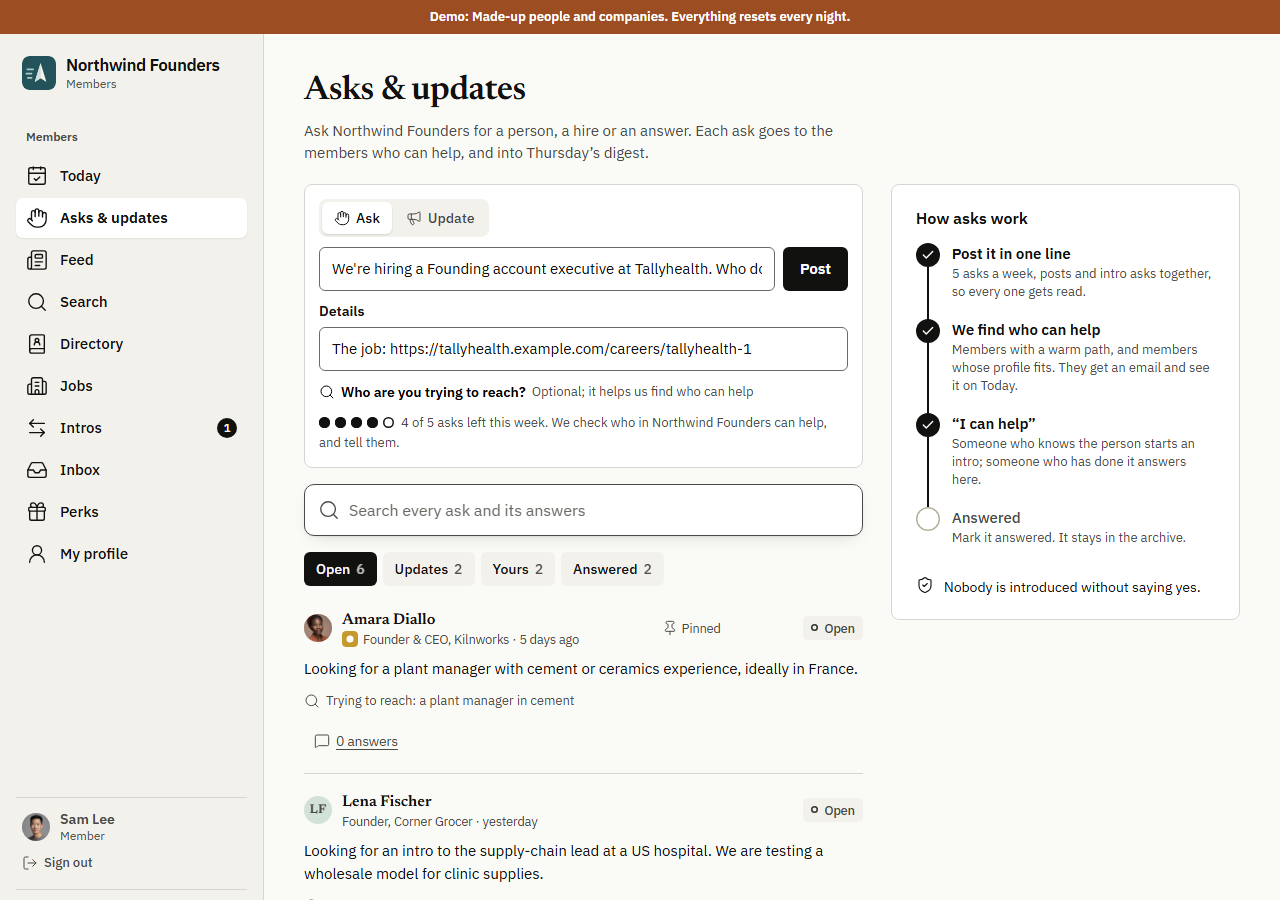
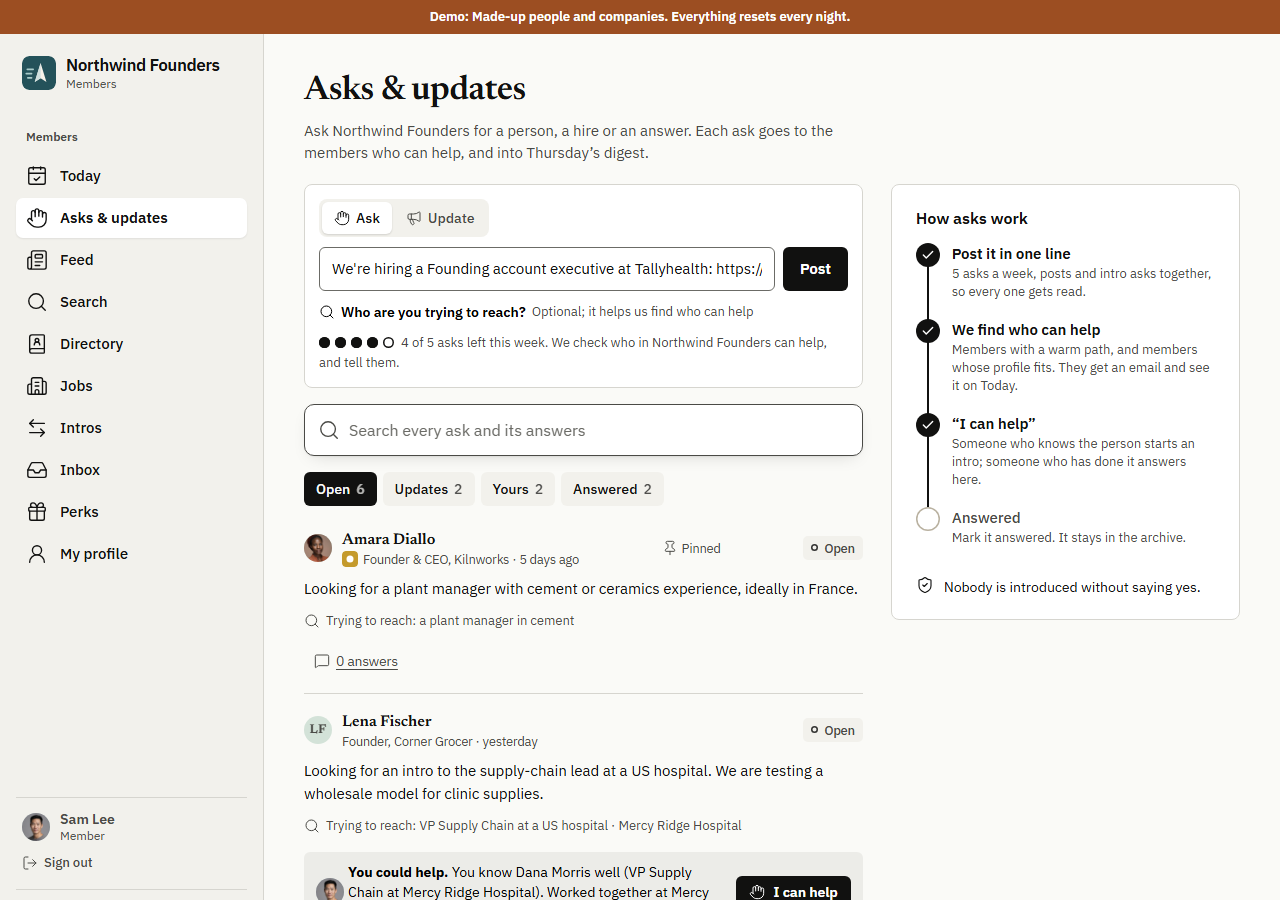
Find candidates: the job's link in the request's line, typed role, phone layout

diff --git a/src/app/(app)/search/candidates/page.tsx b/src/app/(app)/search/candidates/page.tsx
@@ -32,13 +32,13 @@ function readFirst(value: string | string[] | undefined) {
   return (Array.isArray(value) ? value[0] : value) ?? null;
 }
 
-function HiringRequest({ page, communityName, digestDay }: { page: FindCandidatesPage; communityName: string; digestDay: string }) {
+function HiringRequest({ page, typedRole, communityName, digestDay }: { page: FindCandidatesPage; typedRole: string | null; communityName: string; digestDay: string }) {
   if (!page.hiringAskHref) return null;
   return (
     <div className="fh-sheet mt-4" data-slot="hiring-request">
       <h2 className="fh-h3">Or ask {communityName} for candidates</h2>
       <p className="fh-small" style={{ marginTop: 6 }}>
-        A hiring request for {page.role ?? "this job"}, with the job’s link. It goes to Asks &amp; updates and into {digestDay}’s digest. You
+        A hiring request for {page.role ?? typedRole ?? "this job"}, with the job’s link. It goes to Asks &amp; updates and into {digestDay}’s digest. You
         read it before it posts.
       </p>
       <div className="fh-btn-row" style={{ marginTop: 12 }}>
@@ -57,7 +57,8 @@ export default modulePage(networkManifest, async function FindCandidatesPage({ s
   const database = getDatabase();
   const params = await searchParams;
   const jobId = readFirst(params[FIND_CANDIDATES_JOB_PARAM]) ?? "";
-  const page = await readFindCandidatesPage(database, member, jobId);
+  const typed = readFirst(params[SEARCH_PROMPT_PARAM])?.trim() || null;
+  const page = await readFindCandidatesPage(database, member, jobId, typed);
   if (!page) notFound();
   // The first visit runs the job's search; a title with no words waits for the founder to type the role.
   if (readFirst(params[SEARCH_PROMPT_PARAM]) === null && page.query) {
@@ -85,7 +86,8 @@ export default modulePage(networkManifest, async function FindCandidatesPage({ s
       isVillageOn={keys !== null}
       defaultScope={settings.searchScope === SEARCH_SCOPES.everyone ? SEARCH_WHERE.global : SEARCH_WHERE.network}
       canAskIntro={canAskIntro}
-      canAskCommunity={page.hiringAskHref !== null}
+      // The hiring request box stands in for search's own "Ask the community".
+      canAskCommunity={false}
       digestDay={digestDay}
       heading={page.role ? `Find candidates for ${page.role}` : "Find candidates"}
       searchPath={ROUTES.findCandidates}
@@ -93,14 +95,14 @@ export default modulePage(networkManifest, async function FindCandidatesPage({ s
       intro={
         <>
           {where ? <p className="fh-lede">{where}</p> : null}
-          {page.query ? null : (
+          {page.query || typed ? null : (
             <Note icon={UserSearch} className="mt-4" data-slot="type-the-role">
               <b>Type the role you’re hiring for.</b> This job’s title has no words to search for, so nothing was searched yet.
             </Note>
           )}
         </>
       }
-      beforeResults={<HiringRequest page={page} communityName={branding.name} digestDay={digestDay} />}
+      beforeResults={<HiringRequest page={page} typedRole={typed} communityName={branding.name} digestDay={digestDay} />}
     />
   );
 });

diff --git a/src/modules/asks/rules-board-url.ts b/src/modules/asks/rules-board-url.ts
@@ -1,7 +1,7 @@
 import { z } from "zod";
 
 import { ASK_BOARD_TABS, ASK_CATEGORIES, ASK_KINDS, ASK_LIMITS, type AskBoardTab, type AskCategory, type AskKind } from "./contract.ts";
-import { ASK_DRAFT_CATEGORY_PARAM, ASK_DRAFT_DETAIL_PARAM, ASK_DRAFT_PARAM } from "../../platform/modules/manifest.ts";
+import { ASK_DRAFT_CATEGORY_PARAM, ASK_DRAFT_PARAM } from "../../platform/modules/manifest.ts";
 
 const VIEW_PARAM = "view";
 const CATEGORY_PARAM = "category";
@@ -62,12 +62,11 @@ export function parseAskDraft(params: Record<string, SearchParamValue>) {
   return draft ? draft.slice(0, ASK_LIMITS.titleLength) : null;
 }
 
-export type AskDraftParts = { body: string; target: string; category: AskCategory | null; detail: string | null };
+export type AskDraftParts = { body: string; target: string; category: AskCategory | null };
 
-// The whole prefilled ask: the line, and a category and details when the link carries them ("Find candidates").
+// The whole prefilled ask: the line, and a category when the link carries one ("Find candidates" sends "hire").
 export function parseAskDraftParts(params: Record<string, SearchParamValue>): AskDraftParts | null {
   const body = parseAskDraft(params);
   if (!body) return null;
-  const detail = readFirstValue(params[ASK_DRAFT_DETAIL_PARAM])?.trim().slice(0, ASK_LIMITS.detailLength) || null;
-  return { body, target: "", category: categorySchema.parse(readFirstValue(params[ASK_DRAFT_CATEGORY_PARAM])), detail };
+  return { body, target: "", category: categorySchema.parse(readFirstValue(params[ASK_DRAFT_CATEGORY_PARAM])) };
 }

diff --git a/src/shell/find-candidates.ts b/src/shell/find-candidates.ts
@@ -43,7 +43,7 @@ export type FindCandidatesPage = {
 };
 
 // The page behind the button. Null (a 404) for a job that isn't listed, or a member outside its company.
-export async function readFindCandidatesPage(database: Database, member: SessionMember, jobId: string): Promise<FindCandidatesPage | null> {
+export async function readFindCandidatesPage(database: Database, member: SessionMember, jobId: string, typedWords: string | null): Promise<FindCandidatesPage | null> {
   if (!(await isModuleEnabled(database, jobBoardManifest))) return null;
   const job = await readBoardJob(database, jobId);
   if (!job) return null;
@@ -53,10 +53,7 @@ export async function readFindCandidatesPage(database: Database, member: Session
     job: { id: job.id, title: job.title, company: job.company, location: job.location, url: job.url },
     role: readRole(job.title),
     query: buildCandidateQuery(job),
-    hiringAskHref: canAskCommunity ? toAskDraftHref(draftHiringAsk(job), { category: ASK_CATEGORIES.hire, detail: toJobLinkLine(job.url) }) : null,
+    hiringAskHref: canAskCommunity ? toAskDraftHref(draftHiringAsk({ ...job, role: typedWords ?? "" }), { category: ASK_CATEGORIES.hire }) : null,
   };
 }
 
-function toJobLinkLine(url: string) {
-  return /^https?:\/\//i.test(url) ? `The job: ${url}` : null;
-}

diff --git a/src/modules/asks/components/asks-composer.tsx b/src/modules/asks/components/asks-composer.tsx
@@ -38,9 +38,8 @@ export function AsksComposer({ communityName, allowance, draft = null }: Compose
           kind,
           targetText: isUpdate ? null : String(form.get("target") ?? ""),
           targetCompany: isUpdate ? null : String(form.get("company") ?? ""),
-          // A prefilled hiring request ("Find candidates") carries its category and the job's link.
+          // A prefilled hiring request ("Find candidates") carries its category.
           ...(draft?.category && !isUpdate ? { category: draft.category } : {}),
-          ...(draft?.detail ? { detail: String(form.get("detail") ?? "").trim() || null } : {}),
         },
         createdAskSchema,
       );
@@ -90,14 +89,6 @@ export function AsksComposer({ communityName, allowance, draft = null }: Compose
           Post
         </Button>
       </div>
-      {draft?.detail ? (
-        <div style={{ marginTop: 10 }}>
-          <label className="fh-label fh-small" htmlFor="p-detail">
-            Details
-          </label>
-          <Input id="p-detail" name="detail" maxLength={ASK_LIMITS.detailLength} defaultValue={draft.detail} />
-        </div>
-      ) : null}
       {error?.field === "body" ? (
         <p className="fh-hint fh-err" role="alert">
           {error.text}

diff --git a/src/modules/job-board/rules-candidates.ts b/src/modules/job-board/rules-candidates.ts
@@ -40,8 +40,11 @@ export function mayFindCandidates(viewer: CandidateViewer, job: { companySlug: s
   return viewer.companySlug !== null && viewer.companySlug === job.companySlug;
 }
 
-// The hiring request's one line, cut to the ask's title length by the asks page.
-export function draftHiringAsk({ title, company }: { title: string; company: string }) {
-  const role = readRole(title);
-  return role ? `We're hiring a ${role} at ${tidy(company)}. Who do you know?` : `We're hiring at ${tidy(company)}. Who do you know?`;
+// The hiring request's one line, with the job's link in it (an ask shows only its line), cut to the ask's title
+// length by the asks page. `role` is the typed role when the job's own title has no words.
+export function draftHiringAsk({ title, company, url, role: typedRole = "" }: { title: string; company: string; url: string; role?: string }) {
+  const role = readRole(title) ?? readRole(typedRole);
+  const hiring = role ? `We're hiring a ${role} at ${tidy(company)}` : `We're hiring at ${tidy(company)}`;
+  const link = /^https?:\/\/\S+$/i.test(url.trim()) ? `: ${url.trim()}` : "";
+  return `${hiring}${link}. Who do you know?`;
 }

diff --git a/src/modules/asks/rules.test.ts b/src/modules/asks/rules.test.ts
@@ -125,17 +125,16 @@ describe("the words", () => {
 });
 
 describe("a prefilled ask from another screen", () => {
-  it("carries a hiring request's category and the job's link", () => {
-    expect(parseAskDraftParts({ draft: "We're hiring a Designer", category: "hire", detail: "The job: https://jobs.example.com/1" })).toEqual({
-      body: "We're hiring a Designer",
+  it("carries a hiring request's category", () => {
+    expect(parseAskDraftParts({ draft: "We're hiring a Designer: https://jobs.example.com/1", category: "hire" })).toEqual({
+      body: "We're hiring a Designer: https://jobs.example.com/1",
       target: "",
       category: ASK_CATEGORIES.hire,
-      detail: "The job: https://jobs.example.com/1",
     });
   });
 
   it("drops an unknown category and opens nothing without a line", () => {
     expect(parseAskDraftParts({ draft: "Who knows a CFO?", category: "spam" })?.category).toBeNull();
-    expect(parseAskDraftParts({ category: "hire", detail: "x" })).toBeNull();
+    expect(parseAskDraftParts({ category: "hire" })).toBeNull();
   });
 });

diff --git a/src/modules/job-board/rules-candidates.test.ts b/src/modules/job-board/rules-candidates.test.ts
@@ -29,8 +29,13 @@ describe("the search a job turns into", () => {
   });
 
   it("drafts the hiring request from the title and company", () => {
-    expect(draftHiringAsk({ title: "Product Designer", company: "Kilnworks" })).toBe("We're hiring a Product Designer at Kilnworks. Who do you know?");
-    expect(draftHiringAsk({ title: "???", company: "Kilnworks" })).toBe("We're hiring at Kilnworks. Who do you know?");
+    expect(draftHiringAsk({ title: "Product Designer", company: "Kilnworks", url: "https://jobs.example.com/1" })).toBe(
+      "We're hiring a Product Designer at Kilnworks: https://jobs.example.com/1. Who do you know?",
+    );
+    expect(draftHiringAsk({ title: "???", company: "Kilnworks", url: "" })).toBe("We're hiring at Kilnworks. Who do you know?");
+    expect(draftHiringAsk({ title: "???", company: "Kilnworks", url: "javascript:alert(1)", role: "Kiln engineer" })).toBe(
+      "We're hiring a Kiln engineer at Kilnworks. Who do you know?",
+    );
   });
 });
 

diff --git a/src/platform/modules/manifest.ts b/src/platform/modules/manifest.ts
@@ -7,13 +7,11 @@ export const HOME_FEED_MODULE_ID = "feed";
 export const ASKS_MODULE_ID = "asks";
 export const ASK_DRAFT_PARAM = "draft";
 export const ASK_DRAFT_CATEGORY_PARAM = "category";
-export const ASK_DRAFT_DETAIL_PARAM = "detail";
 
-// The composer opens filled in; nothing posts until the member sends it. A category or detail is optional.
-export function toAskDraftHref(title: string, extra: { category?: string | null; detail?: string | null } = {}) {
+// The composer opens filled in; nothing posts until the member sends it. The category is optional.
+export function toAskDraftHref(title: string, extra: { category?: string | null } = {}) {
   const params = new URLSearchParams({ [ASK_DRAFT_PARAM]: title });
   if (extra.category) params.set(ASK_DRAFT_CATEGORY_PARAM, extra.category);
-  if (extra.detail) params.set(ASK_DRAFT_DETAIL_PARAM, extra.detail);
   return `/asks?${params.toString()}`;
 }
 

diff --git a/src/app/parts.css b/src/app/parts.css
@@ -708,6 +708,7 @@ details.fh-others summary{cursor:pointer;font-weight:600;color:var(--fund-deep)}
 .fh-jobrows .fh-r .fh-who span a{color:inherit;text-decoration:underline}
 /* "Find candidates" beside Apply on the company's own jobs (find-candidates). */
 .fh-jobrows .fh-r .fh-end{flex-direction:row;flex-wrap:wrap;align-items:center;justify-content:flex-end;gap:8px}
+@media (max-width:560px){.fh-jobrows .fh-r:has(.fh-end > :nth-child(2)) .fh-end{grid-column:2 / -1;justify-content:flex-start}}
 .fh-r .fh-who span.fh-errtext,.fh-r .fh-who .fh-errtext{color:var(--ribbon);display:inline;white-space:normal}
 .fh-jobsource + .fh-jobsource{margin-top:18px;padding-top:4px;border-top:1px solid var(--rule)}
 a.fh-tag{text-decoration:none;color:var(--ink)}

diff --git a/.ai/features/find-candidates/reports/verify/VERIFY.md b/.ai/features/find-candidates/reports/verify/VERIFY.md
@@ -1,0 +1,23 @@
+# Verify: find-candidates (independent, 2026-11-18)
+
+Built app on :9704, demo data, Playwright clicks (scripts: `.ai/tmp/verify/v1.mjs`, `v2.mjs`). Screenshots in this folder.
+
+| # | Criterion | Result | Evidence |
+|---|-----------|--------|----------|
+| 1 | Button only for the job's company and admins; page 404s for others | PASS | `01-sam-board.png`: Sam sees it on his 2 Tallyhealth jobs only. Maya (admin) sees 5/5. Sam's direct URLs: Ledgerline job 404, Kilnworks job 404, Ledgerline + `&q=` 404, unknown id, `job=abc` and no `job` all 404 (`02-sam-ledgerline-direct.png`). After Sam's profile company was set to Kilnworks, he got the button on the Kilnworks job (page 200) and kept Tallyhealth (he linked its tool). Network module off: no button, page 404. |
+| 2 | Search uses the title (and location); normal results with faces and intro paths | PASS | Redirect to `q=Founding account executive in Boston`; "Remote (US)" job gives `q=Clinical product lead` (no place). `03-sam-results.png`: "2 people in reach", photos, path Sam → Marcus Webb → Rosa, "Ask Marcus for an intro". |
+| 3 | Without own Village connection: says how to connect, still offers the hiring request | PASS | Sam's `member_network.group_joined_at` set to null: `p2.png` / `p2-phone.png` show "Connect your network to search who members know… Connect your network" with the hiring-request box below it, and a profile-only search. |
+| 4 | Hiring request prefilled (hire, title, link) and posts only on send; DB row correct | PASS (see issue A) | `04-sam-asks-prefilled.png`: line "We're hiring a Founding account executive at Tallyhealth. Who do you know?", Details "The job: https://tallyhealth.example.com/careers/tallyhealth-1". Ask count 10 → 10 after opening (nothing posted). After Post (`05-sam-posted.png`) the DB row is `kind=ask, category=hire, detail=The job: https://tallyhealth.example.com/careers/tallyhealth-1`. |
+| 5 | Empty/symbol title never sends an empty search; asks to type the role | PASS (see issue B) | Kilnworks "???": no redirect, no `q`, empty box, "Type the role you're hiring for… nothing was searched yet" (`09-maya-odd-title.png`, `11-phone-odd.png`). `&q=` gives a 200 page with no search. Typing "Ceramics engineer" runs the search (`10-maya-typed-role.png`). Draft becomes "We're hiring at Kilnworks. Who do you know?" with the link. |
+| – | Phone 390px | PASS (see issue C) | `06`, `07`, `08`, `11`, `p2-phone`: no horizontal overflow (scrollWidth 390), nothing broken. |
+
+Also checked: asks module off → the candidates page still searches and the hiring box is gone (`p3-asks-off.png`). No page errors in the browser console.
+
+## Other problems
+- **A (significant): no reader ever sees the job's link.** The `detail` is saved, but the ask page (`05-sam-posted.png`), the board card and the 5 `ask_helper` emails do not show it. I searched the html and text of all 5 outbox rows for `careers/tallyhealth-1` and found 0 matches. The asks UI never shows `ask.detail`. The box says "with the job's link", but the link only feeds search and matching. Steps: post a hiring request from Find candidates, then open the ask as anyone.
+- **B (minor): after the role is typed on an odd-title job, the "Type the role… nothing was searched yet" note stays above the results** (`10-maya-typed-role.png`). It is driven by the job's query, not the current `q`. The hiring draft also ignores the typed role ("We're hiring at Kilnworks"). The page then has two community CTAs: "Post a hiring request" (the hire category) and the empty-state "Ask the community".
+- **C (minor, cosmetic): at 390px the job rows are cramped** (`06-phone-board.png`). With both "Find candidates" and "Apply" in a row, the title column is ~100px wide, so "Founding account executive" wraps onto 3 lines and the meta line onto 4.
+- Note (outside this feature): the full-page phone screenshots show the bottom tab bar highlighting "Directory" on /jobs.
+
+## Data changed and restored
+Sam's `member_network.group_joined_at` → null → restored. Sam's `member_profile.company` → Kilnworks → Tallyhealth. `module_state:asks` and `module_state:network` → off → on. I deleted the hiring ask I posted and its 5 `ask_helper` outbox rows. Search usage counters from my runs remain.
